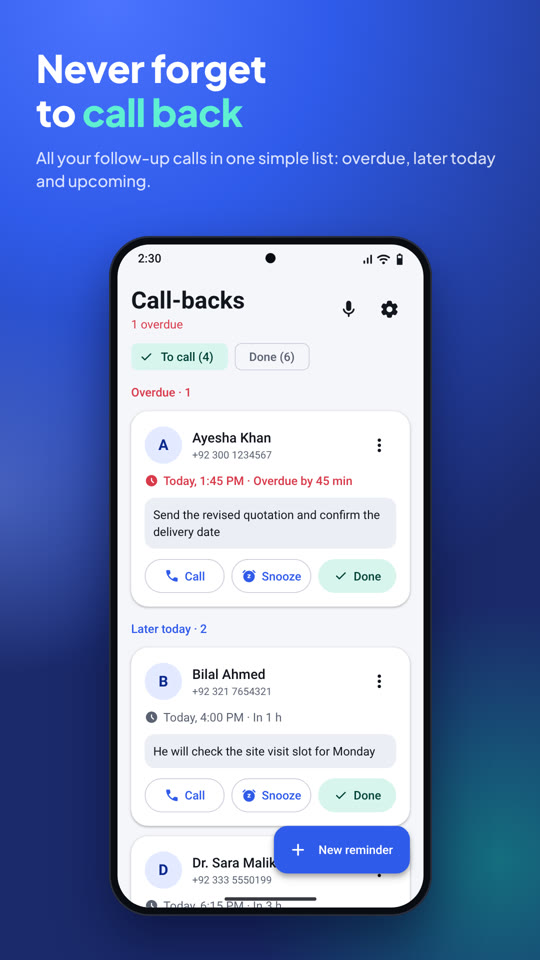
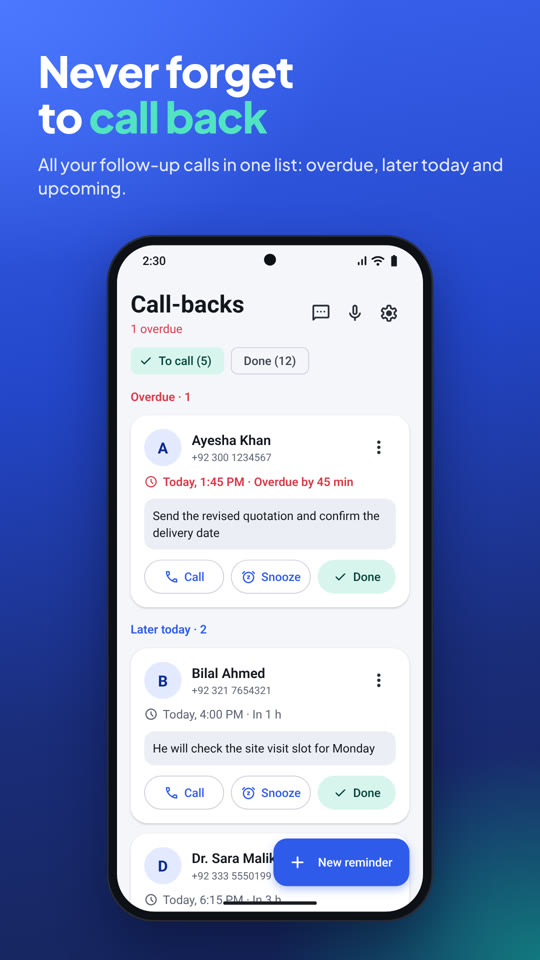
README: new v0.7.0 screenshots, Settings pages, 0.5.2/0.5.3 changelog
Claude-Session: https://claude.ai/code/session_013xvfca1bb4TXVnQKrMGm1Q

diff --git a/README.md b/README.md
@@ -5,7 +5,7 @@
 **Never forget to call someone back.**
 
 An Android app that asks *"When should I remind you to call back?"* the moment a call ends, rings like a real
-call when the time comes, and can record your calls too. Everything stays on your phone.
+call when the time comes, sends follow-up text messages for you, and can record your calls too. Everything stays on your phone.
 
 ![Android 8.0+](https://img.shields.io/badge/Android-8.0%2B-3DDC84?logo=android&logoColor=white)
 ![Kotlin](https://img.shields.io/badge/Kotlin-Jetpack%20Compose-7F52FF?logo=kotlin&logoColor=white)
@@ -15,7 +15,7 @@ call when the time comes, and can record your calls too. Everything stays on you
 <img src="docs/screenshots/01-never-forget.jpg" width="200" alt="Call-backs list" />
 <img src="docs/screenshots/02-after-call-popup.jpg" width="200" alt="After-call popup" />
 <img src="docs/screenshots/03-rings-like-a-call.jpg" width="200" alt="Ringing reminder" />
-<img src="docs/screenshots/07-call-recording.jpg" width="200" alt="Call recordings" />
+<img src="docs/screenshots/10-text-messages.jpg" width="200" alt="Scheduled text messages" />
 
 </div>
 
@@ -88,7 +88,7 @@ call when the time comes, and can record your calls too. Everything stays on you
 - If the phone was off at send time, it sends when the phone is back on if less than 12 hours late; otherwise it
   skips to the next repeat.
 - **Bursts**: turn on Burst and pick one of your templates (Settings › Text messages, up to 20, e.g.
-  "5 texts, 5 min apart"). Each text starts with its number: "Reminder 1: …", "Reminder 2: …". Combine it with a
+  "5 texts, 5 min apart", at least 5 minutes apart). Each text starts with its number: "Reminder 1: …", "Reminder 2: …". Combine it with a
   repeat, e.g. daily for 10 days, so one reminder replaces many. Burst texts are not retried; a missed one is skipped.
 - New messages start at **8:00 AM**; you pick the date.
 - Three tabs: **Scheduled**, **To review** and **Done**.
@@ -113,6 +113,18 @@ call when the time comes, and can record your calls too. Everything stays on you
 - **Auto-delete** after 30 / 60 / 90 days or 6 months, or keep forever.
 - Accidental recordings shorter than 3 seconds are discarded.
 
+### ⚙ Settings
+Settings is a short menu; each row opens its own page:
+
+| Page | What's there |
+|---|---|
+| **Setup** | Every permission with a green tick or an **Allow** button |
+| **After-call popup** | Which calls show the popup (outgoing, incoming, missed, WhatsApp) and a preview |
+| **Quick times** | Your 1 to 12 one-tap times: add, remove, drag to reorder, reset to default |
+| **Call recording** | Microphone and Accessibility setup, what to record, recording source, auto-delete, microphone test |
+| **Reminder style & ringtone** | Full screen / full screen then notification / banner, how many seconds, ringtone, test reminder |
+| **Text messages** | Burst templates (up to 20, with a "What is a burst?" guide) and the stop-on-"Done"-reply switch |
+
 ### 🧪 Try it out
 Settings has **Preview the after-call popup** and **Ring a test reminder in 10 seconds**, so you can test everything
 without making a real call.
@@ -122,11 +134,13 @@ without making a real call.
 | | | |
 |:-:|:-:|:-:|
 | <img src="docs/screenshots/01-never-forget.jpg" width="250"/> | <img src="docs/screenshots/02-after-call-popup.jpg" width="250"/> | <img src="docs/screenshots/03-rings-like-a-call.jpg" width="250"/> |
-| <img src="docs/screenshots/04-call-back-snooze.jpg" width="250"/> | <img src="docs/screenshots/05-whatsapp-calls.jpg" width="250"/> | <img src="docs/screenshots/06-call-waiting.jpg" width="250"/> |
-| <img src="docs/screenshots/07-call-recording.jpg" width="250"/> | <img src="docs/screenshots/08-recording-settings.jpg" width="250"/> | <img src="docs/screenshots/09-new-reminder.jpg" width="250"/> |
-| <img src="docs/screenshots/10-snooze-reschedule.jpg" width="250"/> | <img src="docs/screenshots/11-your-rules.jpg" width="250"/> | <img src="docs/screenshots/12-private-setup.jpg" width="250"/> |
+| <img src="docs/screenshots/04-reminder-style.jpg" width="250"/> | <img src="docs/screenshots/05-new-reminder.jpg" width="250"/> | <img src="docs/screenshots/06-recent-calls.jpg" width="250"/> |
+| <img src="docs/screenshots/07-date-and-time.jpg" width="250"/> | <img src="docs/screenshots/08-repeating-reminders.jpg" width="250"/> | <img src="docs/screenshots/09-quick-times.jpg" width="250"/> |
+| <img src="docs/screenshots/10-text-messages.jpg" width="250"/> | <img src="docs/screenshots/11-sms-bursts.jpg" width="250"/> | <img src="docs/screenshots/12-burst-templates.jpg" width="250"/> |
+| <img src="docs/screenshots/13-done-reply.jpg" width="250"/> | <img src="docs/screenshots/14-whatsapp-call-waiting.jpg" width="250"/> | <img src="docs/screenshots/15-call-recording.jpg" width="250"/> |
+| <img src="docs/screenshots/16-settings.jpg" width="250"/> | <img src="docs/screenshots/17-private-setup.jpg" width="250"/> |  |
 
-<sub>Screens are recreated from the app's UI code with sample names and numbers.</sub>
+<sub>Screens are recreated from the app's UI code (v0.7.0) with sample names and numbers.</sub>
 
 ## Install
 
@@ -191,8 +205,8 @@ Android does not let normal apps record the phone line itself, so the app record
 Requirements: JDK 17, Gradle 8.10.2, Android SDK 35.
 
 ```bash
-gradle assembleDebug
-# APK: app/build/outputs/apk/debug/app-debug.apk
+gradle assembleRelease
+# APK: app/build/outputs/apk/release/app-release.apk  (about 2 MB, R8-minified)
 ```
 
 GitHub Actions ([`.github/workflows/build.yml`](.github/workflows/build.yml)) does the same on every push to `main`
@@ -231,7 +245,8 @@ app/src/main/java/com/callbackreminder/app/
   CallRecorder.kt / Recording.kt            recording engine, storage, playback
   RecordingsScreen.kt                       recordings list and player
   HomeScreen.kt / SettingsScreen.kt         main screens
-  AddReminderDialog.kt / Components.kt      new-reminder dialog, date & time picker, avatars
+  AddReminderDialog.kt / Components.kt      new-reminder dialog, contact card, recent calls, avatars
+  QuickTimes.kt / QuickTimesSettings.kt     your one-tap times and the Quick times page
   Helpers.kt / Theme.kt                     settings, formatting, permissions status, colours
 ```
 
@@ -244,6 +259,14 @@ app/src/main/java/com/callbackreminder/app/
 ### 0.6.0
 - **Scheduled text messages**: automatic SMS from your SIM at a set time, once or repeating, with retries,
   a sent/delivered history, and a tap-to-send fallback when SMS permission is off.
+
+### 0.5.3
+- The published APK is now an optimized release build (about 2 MB instead of 16 MB) with smoother animations.
+  It is signed with the same key, so it installs as an update.
+
+### 0.5.2
+- Settings split into section pages: Setup, After-call popup, Quick times, Call recording, and Reminder style &
+  ringtone, each sliding in as its own page. Home banners open the right page directly.
 
 ### 0.5.1
 - Redesigned **New reminder**: Contacts / Recent calls instead of typing, a contact card with the name, and one
